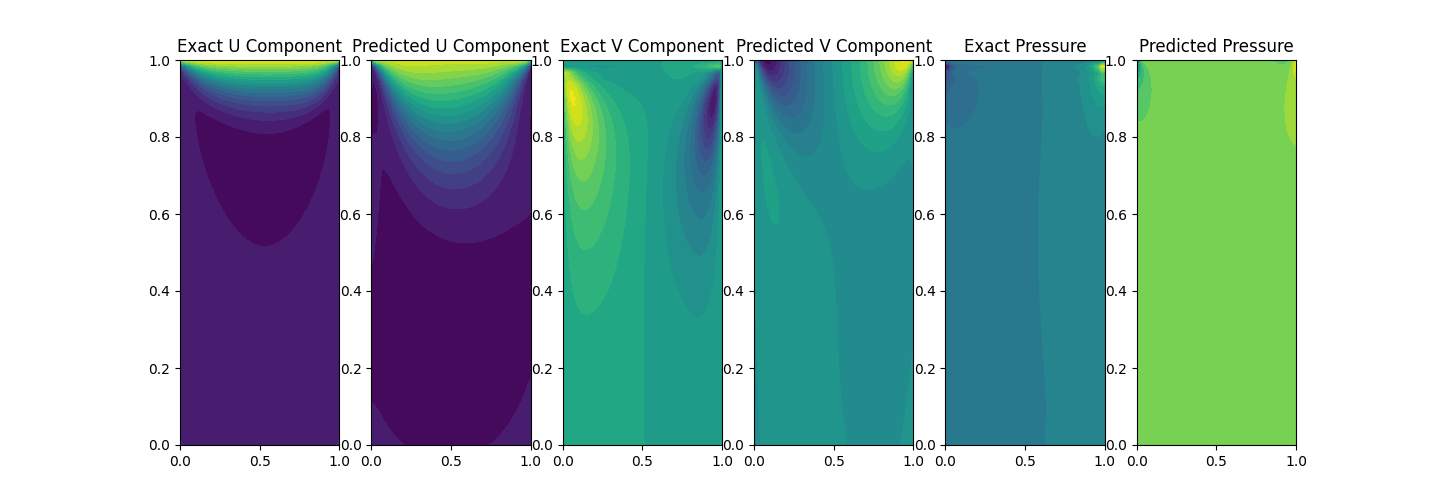
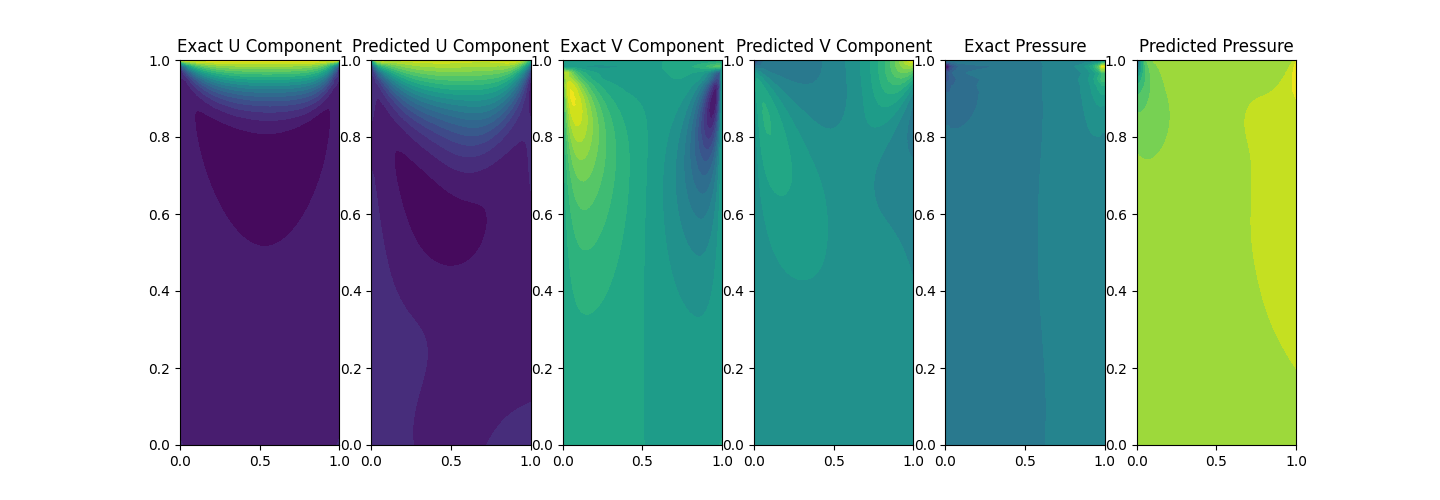
adding contours

diff --git a/Question_2/dpxde_new.py b/Question_2/dpxde_new.py
@@ -35,6 +35,7 @@ def pde(x, u):
     return [momentum_x, momentum_y, continuity]
 
 
+
 def boundary_left(x, on_boundary):
     return on_boundary and dde.utils.isclose(x[0], 0)
 
@@ -46,17 +47,22 @@ def boundary_right(x, on_boundary):
 def boundary_bottom(x, on_boundary):
     return on_boundary and dde.utils.isclose(x[1], 0)
 
-
-# def boundary_top(x, on_boundary):
-#     return on_boundary and dde.utils.isclose(x[1], 1)
 def boundary_top(x, on_boundary):
     return on_boundary and dde.utils.isclose(x[1], 1)
 
 
 # xmin – Coordinate of bottom left corner.
 # xmax – Coordinate of top right corner.
+
 # Explicitly set orientation to ensure consistent color mapping
 spatial_domain = dde.geometry.Rectangle(xmin=[0, 0], xmax=[1, 1])
+
+# Homogeneous Dirichlet Boundary condition at the top side
+bc_top = dde.DirichletBC(spatial_domain, lambda x: [1.0, 0.0, 0.0], boundary_top)
+
+# Randomly select 100 points in the domain for training
+num_random_points = 100
+random_points = np.random.rand(num_random_points, 2)
 
 # Define boundary conditions
 bc_left = dde.DirichletBC(spatial_domain, lambda x: [0.0, 0.0], boundary_left)
@@ -65,26 +71,6 @@ bc_bottom = dde.DirichletBC(spatial_domain, lambda x: [0.0, 0.0], boundary_botto
 
 # Homogeneous Dirichlet Boundary condition at the top side
 bc_top = dde.DirichletBC(spatial_domain, lambda x: [1.0, 0.0, 0.0], boundary_top)
-
-# boundary_condition_u = dde.DirichletBC(
-#     spatial_domain,
-#     lambda x: 1.0 if any(dde.utils.isclose(x[0], 1)) else 0.0,
-#     lambda x, on_boundary: on_boundary and not dde.utils.isclose(x[1], 1),
-#     component=0,
-# )
-#
-# # Homogeneous Neumann Boundary condition at the left, right, and bottom sides
-# boundary_condition_v = dde.DirichletBC(
-#     spatial_domain,
-#     lambda x: 0.0,
-#     lambda x, on_boundary: (
-#         on_boundary
-#         and not dde.utils.isclose(x[1], 0)
-#         and not dde.utils.isclose(x[0], 1)
-#         and not dde.utils.isclose(x[1], 0)
-#     ),
-#     component=1,
-# )
 
 # Modify the boundary condition for u at the top side
 boundary_condition_u = dde.DirichletBC(
@@ -106,16 +92,17 @@ boundary_condition_v = dde.DirichletBC(
     component=1,
 )
 
-
+# Remove the Dirichlet boundary conditions for u and v
 
 data = dde.data.PDE(
     spatial_domain,
     pde,
-    [bc_left, bc_right, bc_bottom, bc_top, boundary_condition_u, boundary_condition_v],
-    num_domain=500,  # Adjust the number of points in the domain as needed
+    [bc_left, bc_right, bc_bottom, bc_top, boundary_condition_u],
+    num_domain=num_random_points,  # Use only 100 random points
     num_boundary=400,
     num_test=1024,
 )
+
 
 
 

diff --git a/Question_2/PINN_dpxde.py b/Question_2/PINN_dpxde.py
@@ -53,23 +53,28 @@ def boundary_top(x, on_boundary):
 
 # xmin – Coordinate of bottom left corner.
 # xmax – Coordinate of top right corner.
+# xmin – Coordinate of bottom left corner.
+# xmax – Coordinate of top right corner.
+
 # Explicitly set orientation to ensure consistent color mapping
-spatial_domain = dde.geometry.Rectangle(xmin=[0, 0], xmax=[1, 1], orientation="xy")
+spatial_domain = dde.geometry.Rectangle(xmin=[0, 0], xmax=[1, 1])
 
 # Define boundary conditions
-bc_left = dde.DirichletBC(spatial_domain, lambda x: [0.0, 0.0], boundary_left)
-bc_right = dde.DirichletBC(spatial_domain, lambda x: [0.0, 0.0], boundary_right)
-bc_bottom = dde.DirichletBC(spatial_domain, lambda x: [0.0, 0.0], boundary_bottom)
+bc_left = dde.DirichletBC(spatial_domain, lambda x: [0.0, 0.0, 0.0], boundary_left)
+bc_right = dde.DirichletBC(spatial_domain, lambda x: [0.0, 0.0, 0.0], boundary_right)
+bc_bottom = dde.DirichletBC(spatial_domain, lambda x: [0.0, 0.0, 0.0], boundary_bottom)
 
 # Homogeneous Dirichlet Boundary condition at the top side
-bc_top = dde.DirichletBC(spatial_domain, lambda x: [1.0, 0.0], boundary_top)
+bc_top = dde.DirichletBC(spatial_domain, lambda x: [1.0, 0.0, 0.0], boundary_top)
 
+# Modify the boundary_condition_u and boundary_condition_v functions
 boundary_condition_u = dde.DirichletBC(
     spatial_domain,
     lambda x: 1.0 if any(dde.utils.isclose(x[0], 1)) else 0.0,
     lambda x, on_boundary: on_boundary and not dde.utils.isclose(x[1], 1),
     component=0,
 )
+
 
 # Homogeneous Neumann Boundary condition at the left, right, and bottom sides
 boundary_condition_v = dde.DirichletBC(
@@ -101,7 +106,7 @@ net = dde.nn.FNN([2] + 8 * [50] + [3], "tanh", "Glorot normal")
 
 model = dde.Model(data, net)
 model.compile("L-BFGS")
-losshistory, train_state = model.train(iterations=100)
+losshistory, train_state = model.train(iterations=40)
 
 
 ###### Data.npy
@@ -158,12 +163,12 @@ plt.title("Predicted U Component")
 
 # Plot Exact V Component
 plt.subplot(1, 6, 3)
-plt.tricontourf(x.flatten(), y.flatten(), v_exact, cmap="viridis", levels=20)
+plt.tricontourf(x.flatten(), y.flatten(), -v_exact, cmap="viridis", levels=20)
 plt.title("Exact V Component")
 
 # Plot Predicted V Component
 plt.subplot(1, 6, 4)
-plt.tricontourf(x.flatten(), y.flatten(), -v_pred, cmap="viridis", levels=20)
+plt.tricontourf(x.flatten(), y.flatten(), v_pred, cmap="viridis", levels=20)
 plt.title("Predicted V Component")
 
 # Plot Exact Pressure

diff --git a/Question_2/scratch_PINNs.py b/Question_2/scratch_PINNs.py
@@ -268,7 +268,8 @@ def main():
     p = pressure.flatten()[:, None]
 
     # Training Data
-    idx = np.random.choice(3721, 1000, replace=False)
+    Num_data_points = 100
+    idx = np.random.choice(3721, Num_data_points, replace=False)
     x_train = x[idx, :]
     y_train = y[idx, :]
     u_train = u[idx, :]
@@ -289,7 +290,7 @@ def main():
     # Create and train the model
     pinn.train(num_epochs=100)
 
-    u_out, v_out, p_out, _, _, _ = pinn.function(x_test, y_test)
+    u_out, v_out, p_out, _, _, _ = pinn.function(x_train, y_test)
 
     # Plot pressure using heatmap
     p_out_np = p_out.detach().numpy()
